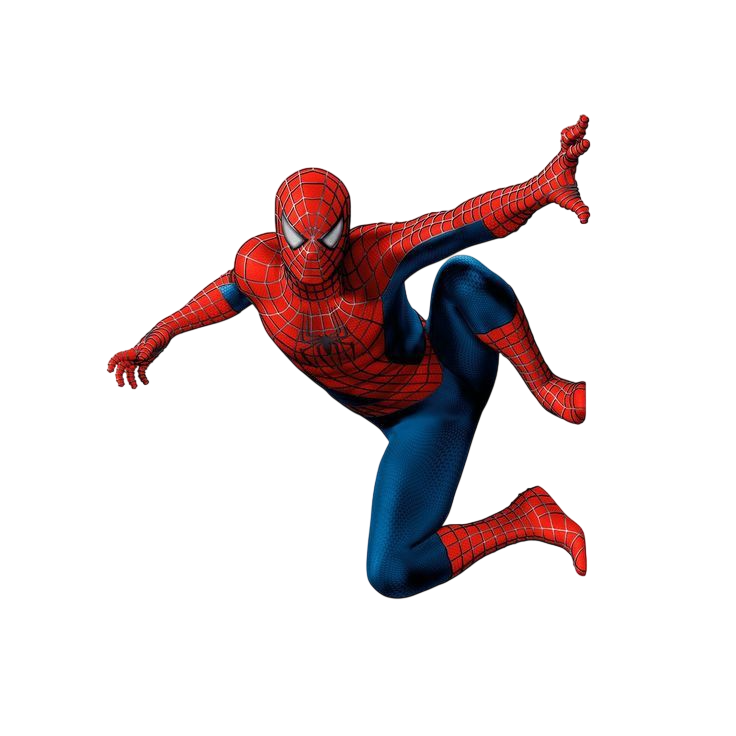
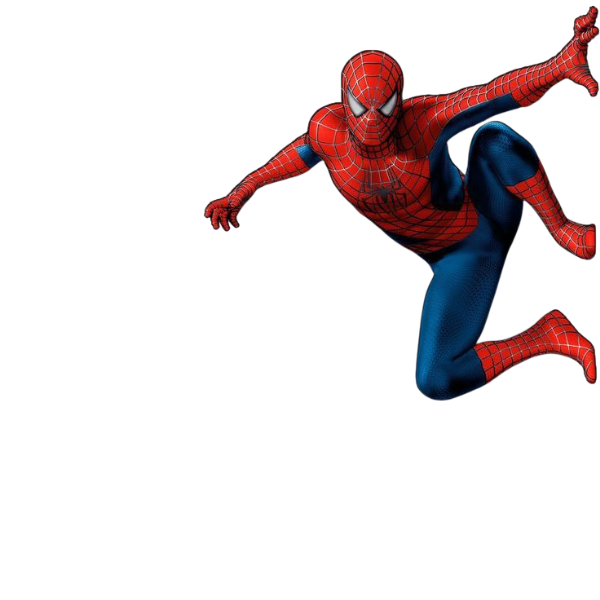
upd

Changed region(s): [[0.15, 0.0, 1.0, 0.81]]

diff --git a/index.html b/index.html
@@ -620,12 +620,12 @@
 			animation-delay: 6s;
 		}
 
-.flex {
-	display: flex;
-	width: fit-content;
-	margin: 0 auto;
-	gap: 10px;
-}
+		.flex {
+			display: flex;
+			width: fit-content;
+			margin: 0 auto;
+			gap: 10px;
+		}
 
 		@keyframes spiderman {
 			0% {
@@ -636,10 +636,10 @@
 				top: 0;
 			}
 		}
-		
+
 		.spiderman {
 			position: absolute;
-			right: -40px;
+			right: 0px;
 
 			animation-name: spiderman;
 			/* Название анимации */
@@ -673,7 +673,8 @@
 			}
 		}
 
-		.harry,.snitch {
+		.harry,
+		.snitch {
 			position: absolute;
 			left: 0;
 			top: 90px;
@@ -709,7 +710,7 @@
 				display: none;
 			}
 		}
-		
+
 		.snitch {
 			animation-name: snitch;
 			/* Название анимации */
@@ -728,7 +729,6 @@
 			animation-play-state: running;
 			/* Состояние: воспроизводится */
 		}
-		
 	</style>
 </head>
 
@@ -752,8 +752,9 @@
 	<img class="snitch" src="img/3.png" alt="" width="50">
 	<h1>KOREAN</h1>
 	<div class="flex">
-	<img src="img/russia.png" alt="" width="50">
-	<img src="img/flag.png" alt="" width="50"></div>
+		<img src="img/russia.png" alt="" width="50">
+		<img src="img/flag.png" alt="" width="50">
+	</div>
 	<div class="container">
 		<div class="terminal">
 			<div class="corner corner-tl"></div>
